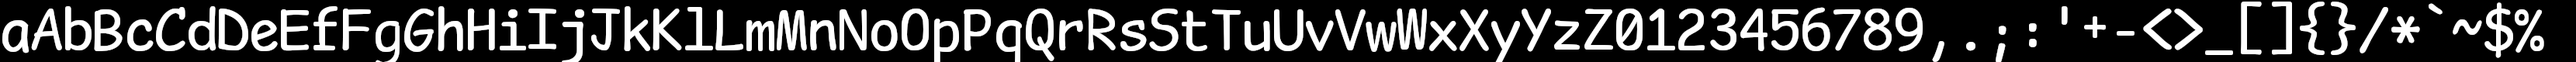
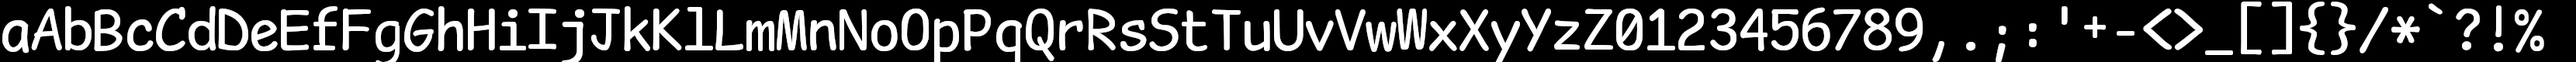
Add files via upload

Changed region(s): [[0.9307, 0.15, 0.9928, 0.8]]

diff --git a/src/game/initialization.rs b/src/game/initialization.rs
@@ -160,7 +160,7 @@ pub fn initialize() -> GameSession {
         &mut eng,
         matt,
         "assets/consolas.png",
-        "aAbBcCdDeEfFgGhHiIjJkKlLmMnNoOpPqQrRsStTuUvVwWxXyYzZ0123456789,.;:'+-<>_[]{}/*`~$% ",
+        "aAbBcCdDeEfFgGhHiIjJkKlLmMnNoOpPqQrRsStTuUvVwWxXyYzZ0123456789,.;:'+-<>_[]{}/*`?!% ",
         MeshUsage::PostPass,
     );
 
@@ -170,7 +170,7 @@ pub fn initialize() -> GameSession {
             &mut eng,
             matt2,
             "assets/comicmonoinv.png",
-            "aAbBcCdDeEfFgGhHiIjJkKlLmMnNoOpPqQrRsStTuUvVwWxXyYzZ0123456789,.;:'+-<>_[]{}/*`~$% ",
+            "aAbBcCdDeEfFgGhHiIjJkKlLmMnNoOpPqQrRsStTuUvVwWxXyYzZ0123456789,.;:'+-<>_[]{}/*`?!% ",
             MeshUsage::PostPass,
         );
         text.push(t);
@@ -182,7 +182,7 @@ pub fn initialize() -> GameSession {
             &mut eng,
             matt,
             "assets/comicmonoinv.png",
-            "aAbBcCdDeEfFgGhHiIjJkKlLmMnNoOpPqQrRsStTuUvVwWxXyYzZ0123456789,.;:'+-<>_[]{}/*`~$% ",
+            "aAbBcCdDeEfFgGhHiIjJkKlLmMnNoOpPqQrRsStTuUvVwWxXyYzZ0123456789,.;:'+-<>_[]{}/*`?!% ",
             MeshUsage::PostPass,
         );
         menu_text.push(t);
@@ -192,7 +192,7 @@ pub fn initialize() -> GameSession {
         &mut eng,
         matt,
         "assets/comicmonoinv.png",
-        "aAbBcCdDeEfFgGhHiIjJkKlLmMnNoOpPqQrRsStTuUvVwWxXyYzZ0123456789,.;:'+-<>_[]{}/*`~$% ",
+        "aAbBcCdDeEfFgGhHiIjJkKlLmMnNoOpPqQrRsStTuUvVwWxXyYzZ0123456789,.;:'+-<>_[]{}/*`?!% ",
         MeshUsage::PostPass,
     ));
 
